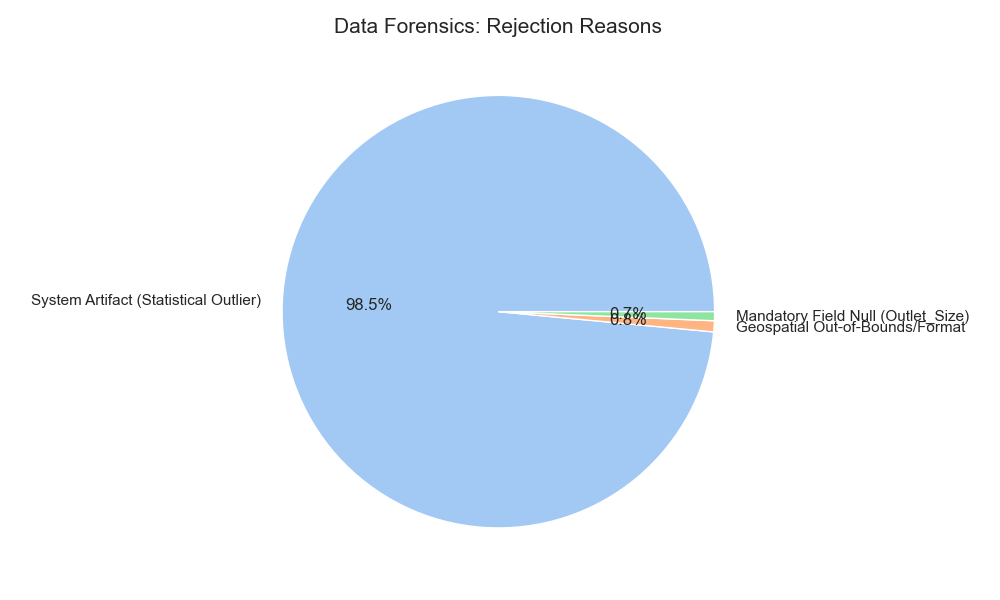
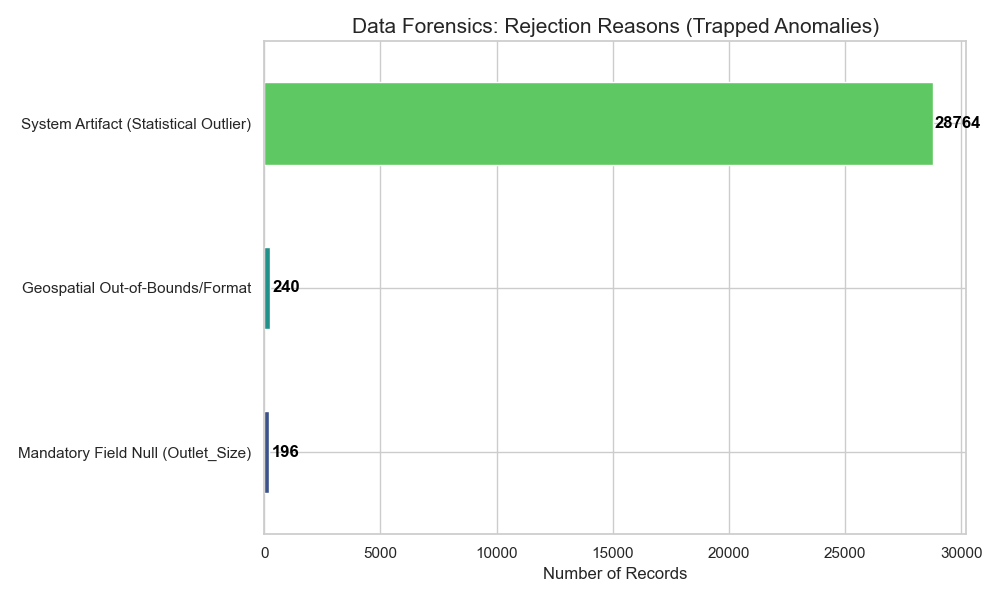
chart overlapping issue

diff --git a/src/utils/generate_visuals.py b/src/utils/generate_visuals.py
@@ -31,19 +31,26 @@ def generate_charts():
         plt.savefig(chart_path / "feature_importance.png")
         print("SAVED: feature_importance.png")
 
-    # 2. Rejection Reason Chart
+    # 2. Rejection Reason Chart (Bar Chart is better for imbalanced data)
     rej_path = Path("outputs/evidence/rejected_reason_counts.csv")
     if rej_path.exists():
         df_rej = pd.read_csv(rej_path)
         # Aggregate by reason
-        reason_sums = df_rej.groupby('rejection_reason')['count'].sum().sort_values(ascending=False)
+        reason_sums = df_rej.groupby('rejection_reason')['count'].sum().sort_values(ascending=True)
         plt.figure()
-        reason_sums.plot(kind='pie', autopct='%1.1f%%', colors=sns.color_palette('pastel'))
-        plt.title("Data Forensics: Rejection Reasons", fontsize=15)
+        # Use log scale if the difference is massive (98% vs 1%)
+        ax = reason_sums.plot(kind='barh', color=sns.color_palette('viridis', len(reason_sums)))
+        plt.title("Data Forensics: Rejection Reasons (Trapped Anomalies)", fontsize=15)
+        plt.xlabel("Number of Records")
         plt.ylabel("")
+        
+        # Add labels to the end of bars
+        for i, v in enumerate(reason_sums):
+            ax.text(v + 100, i, str(v), color='black', va='center', fontweight='bold')
+            
         plt.tight_layout()
         plt.savefig(chart_path / "rejection_summary.png")
-        print("SAVED: rejection_summary.png")
+        print("SAVED: rejection_summary.png (Upgraded to Bar Chart)")
 
     # 3. Prediction Distribution
     pred_path = Path("outputs/predictions/quadnova_predictions.csv")
